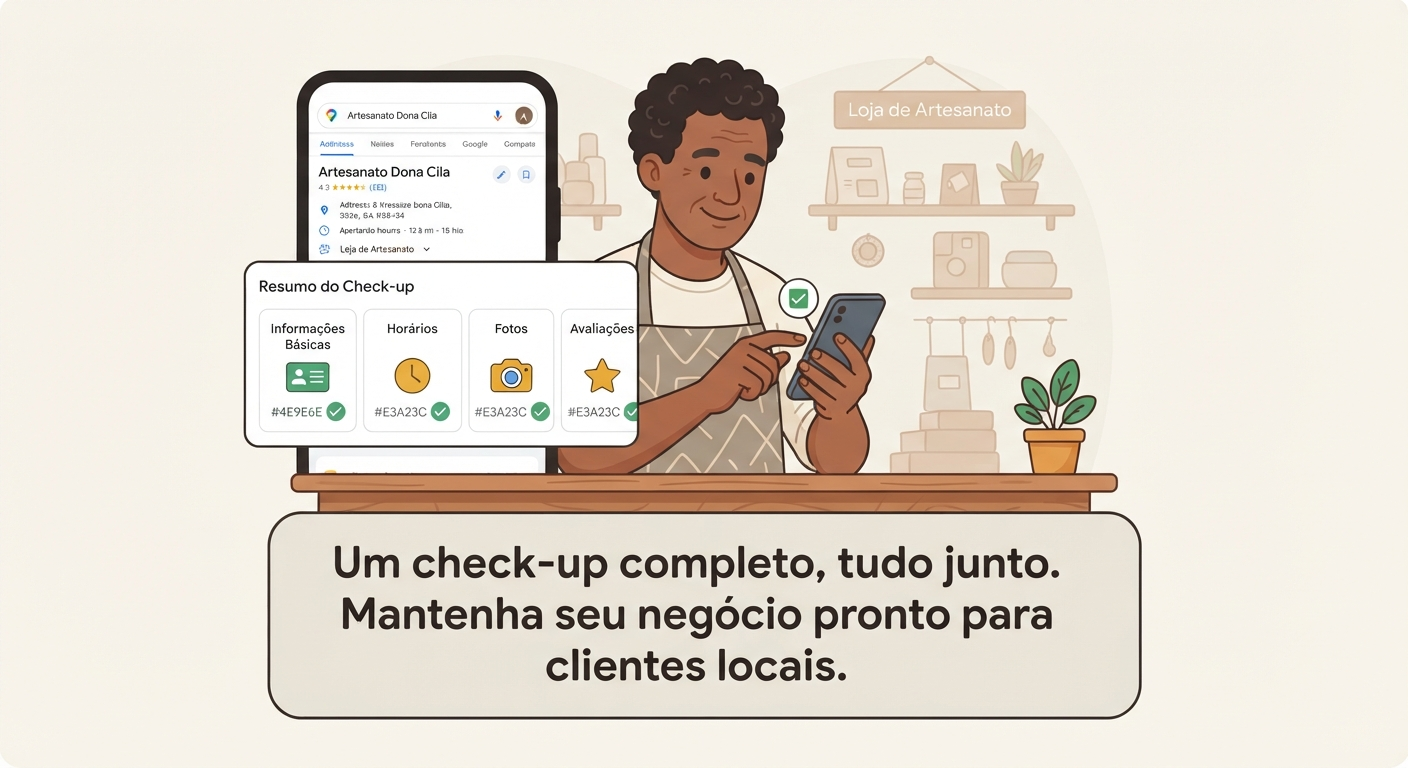
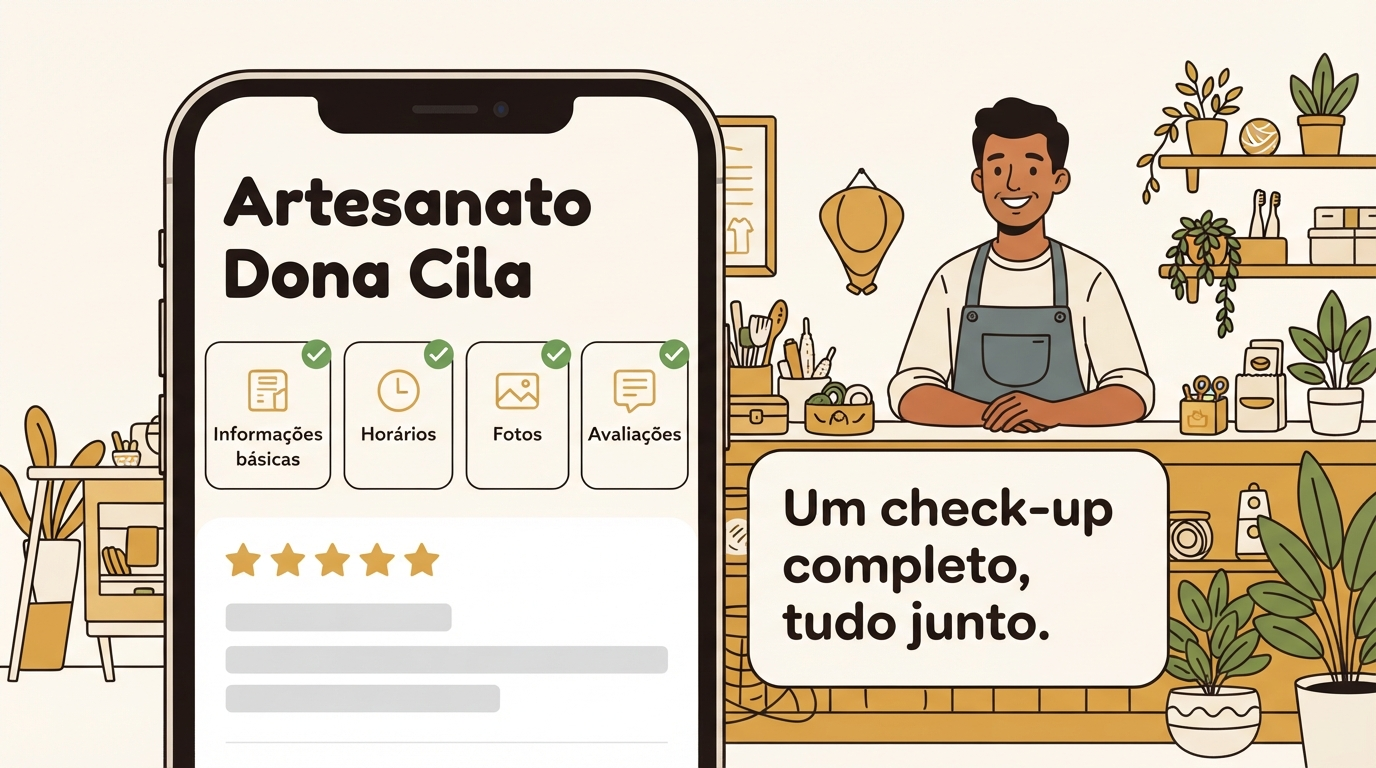
fix: integra first-checkup/cena-01 (R10v3) - lote das 11 imagens zerado

diff --git a/docs/07-CHANGELOG.md b/docs/07-CHANGELOG.md
@@ -1,5 +1,9 @@
 # Changelog
 
+## 2026-09-19 — Lote das imagens com defeito zerado: 11 de 11 integradas
+
+Terceira leva (`cena-01.jpg` em `imagens-correçao`): a estratégia do R10v3 funcionou — sem barra de cabeçalho na composição, o modelo não teve onde escrever inglês. `first-profile-checkup/cena-01` aprovada (nome, 4 blocos com checks, estrelas, legenda, zero texto estrangeiro) e integrada. Com ela, **as 11 imagens com defeito técnico do lote R1–R11 estão todas substituídas** (8 na 1ª rodada + 2 na 2ª + esta). Validado com `npm run lint` e `npm run build`, ambos limpos.
+
 ## 2026-09-19 — Segunda rodada: 2 das 3 devolvidas aprovadas; `first-checkup/cena-01` volta pela 2ª vez
 
 Segunda leva do usuário em `imagens-correçao` (pasta substituída, 3 arquivos: `cena-01`, `cena-03`, `cena-04`), contra os prompts corrigidos R2v2/R7v2/R10v2.
